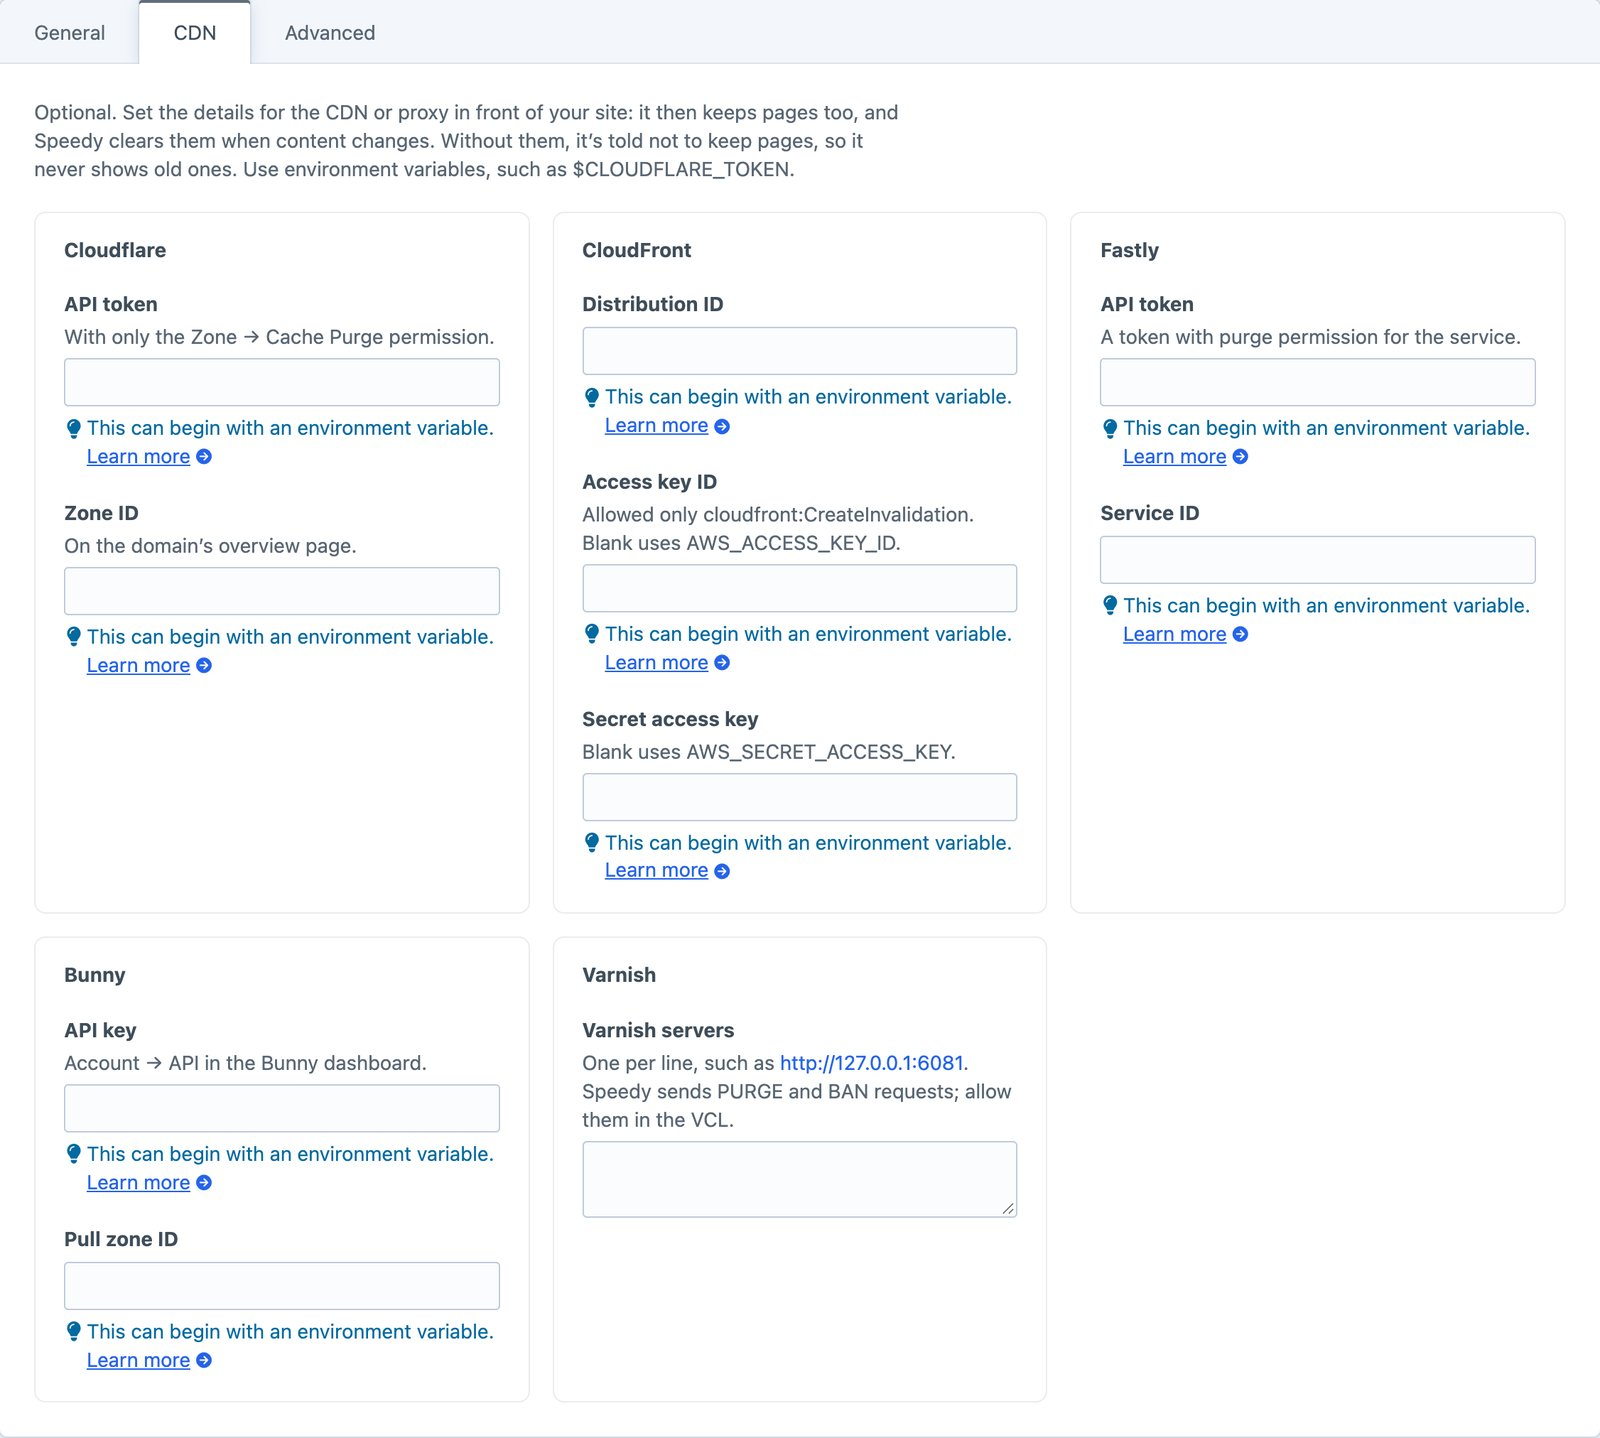
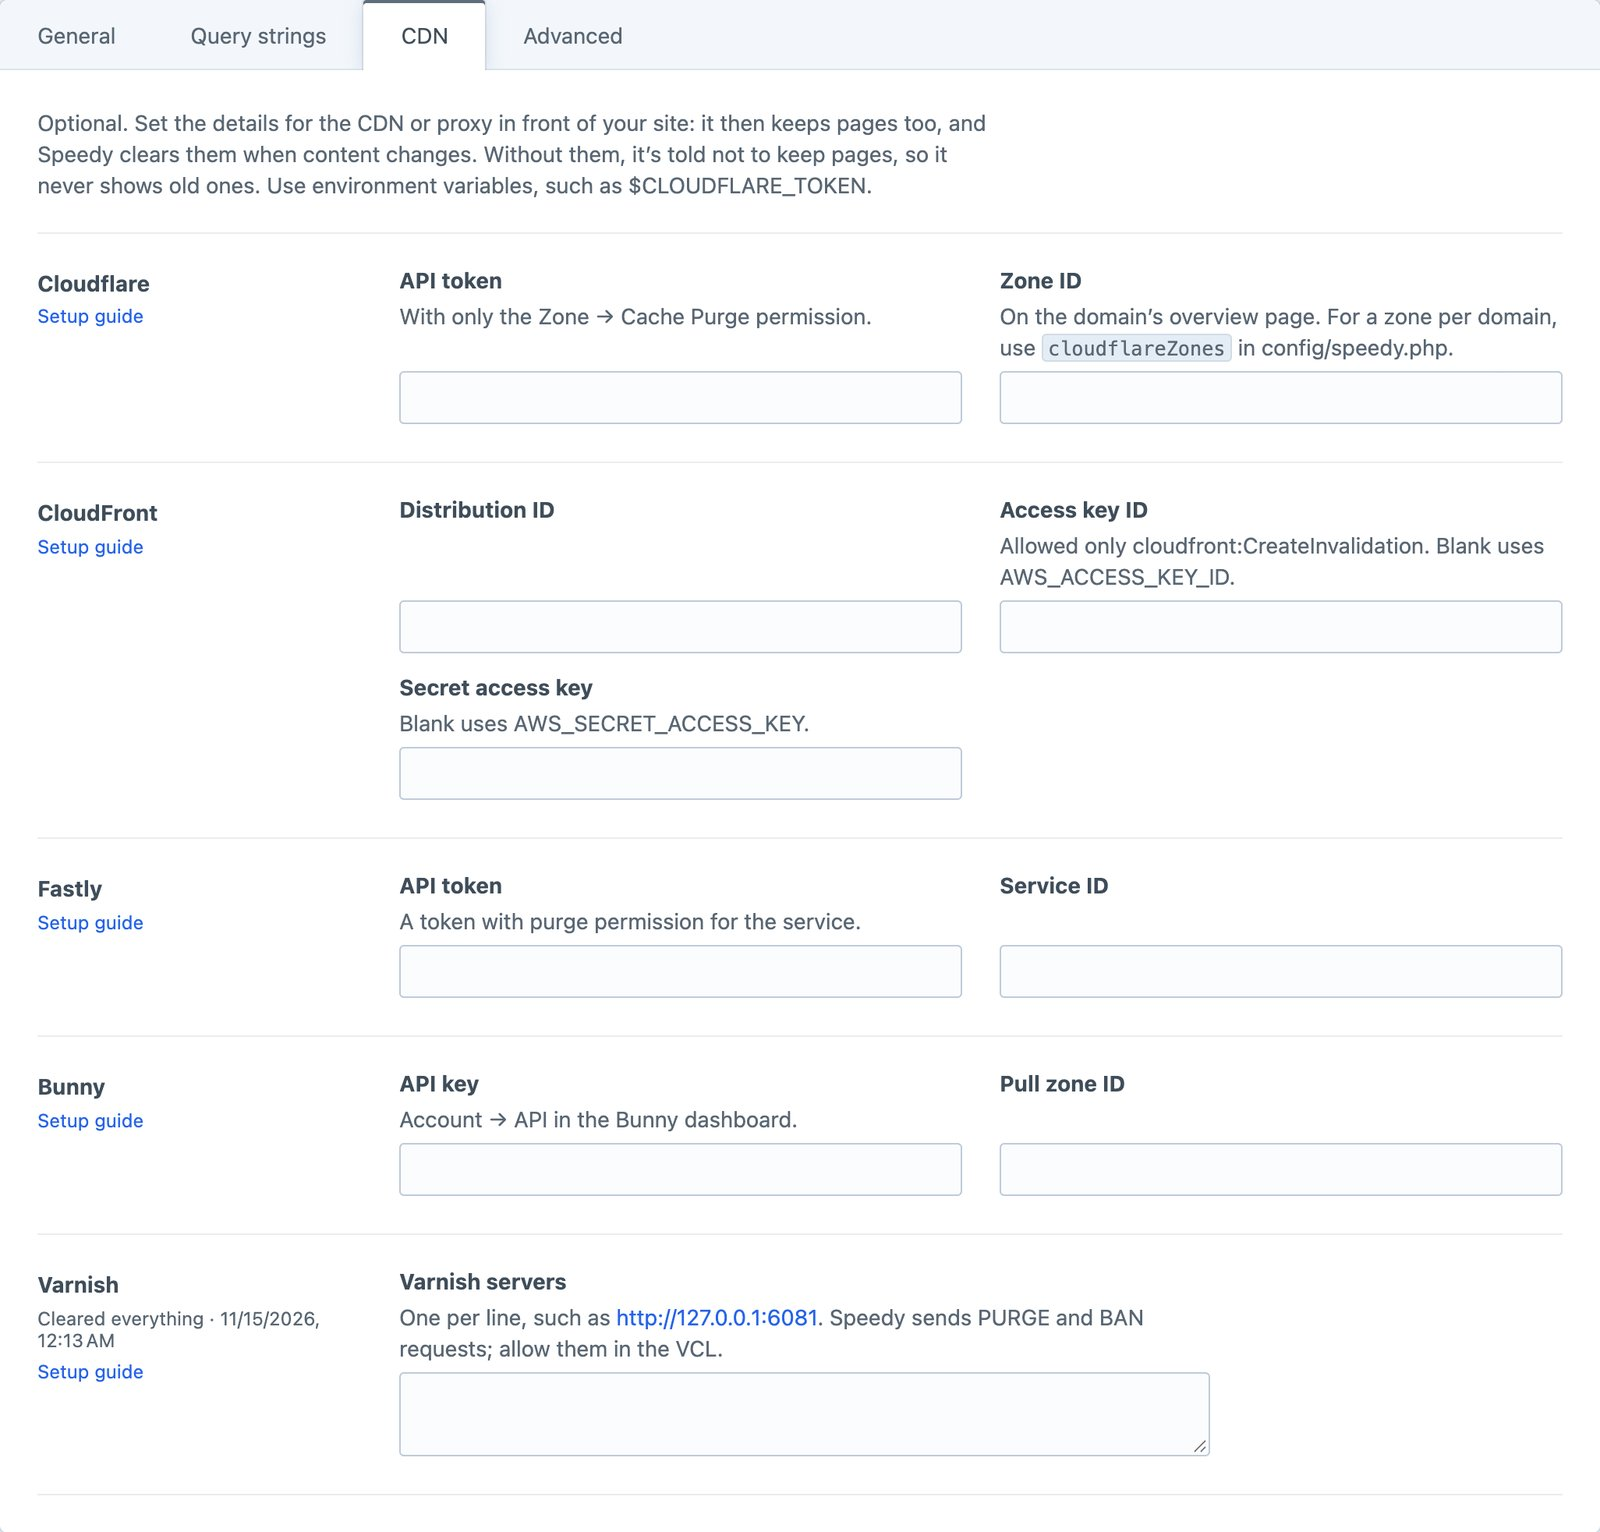
Release 1.2.0

diff --git a/docs/src/guides/utility.md b/docs/src/guides/utility.md
@@ -58,7 +58,7 @@ Filled in as Speedy rebuilds pages in the background, so visitors’ requests ar
 - **Cleared by any change:** pages with a query that doesn’t choose a section or group, such as `craft.entries.relatedTo(entry)`, with the template and line. Saving any entry clears them, so an import can clear them again and again. Narrow the query, for example with `.section('news')`.
 - **Repeated queries:** pages that run the same query in a loop, below.
 
-![The Repeated queries tab: a locations page ran 61 queries, 21 of them the same query for categories, with the template and line and how to eager-load them](/images/repeated-queries.jpg)
+![The Performance tab: the slowest pages with their build times, a page cleared by any change with the template line of its query, and a page that runs the same query in a loop](/images/performance.jpg)
 
 Pages that run the same database query again and again, usually once for each item in a loop. This is called an N+1 query: a news listing of 30 entries that reads each entry’s categories runs 30 extra queries, where eager-loading runs one.
 

diff --git a/docs/src/getting-started/configuration.md b/docs/src/getting-started/configuration.md
@@ -7,7 +7,9 @@ The settings page (**Settings → Plugins → Speedy Cache**) has four tabs:
 - **CDN:** your Cloudflare and CloudFront details, and whether Speedy has seen your site behind either.
 - **Advanced:** the [API](/guides/api) key, with a button to generate one, and the options below that are only set in `config/speedy.php`, with the values in use now.
 
-![Speedy Cache settings, General tab: a status strip, Cache pages, Never cache, Only cache, When content changes and After clearing everything](/images/settings.jpg)
+![Speedy Cache settings, General tab: a status strip, Cache pages, the Never cache and Only cache tables, When content changes and After clearing everything](/images/settings.jpg)
+
+![The Query strings tab: parameters seen keeping pages out of the cache with Cache and Ignore buttons, then the cached and ignored parameters](/images/query-strings.jpg)
 
 ![The Advanced tab: cache storage, the API key and the options set in config/speedy.php](/images/settings-advanced.jpg)
 

diff --git a/CHANGELOG.md b/CHANGELOG.md
@@ -1,6 +1,6 @@
 # Release Notes for Speedy Cache
 
-## Unreleased
+## 1.2.0 - 2026-11-17
 
 ### Added
 - The utility page names query parameters that often keep pages out of the cache, and says whether to cache or ignore them.
